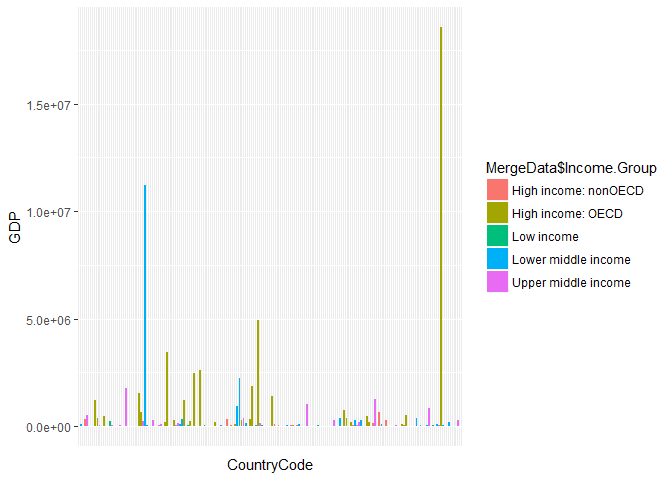
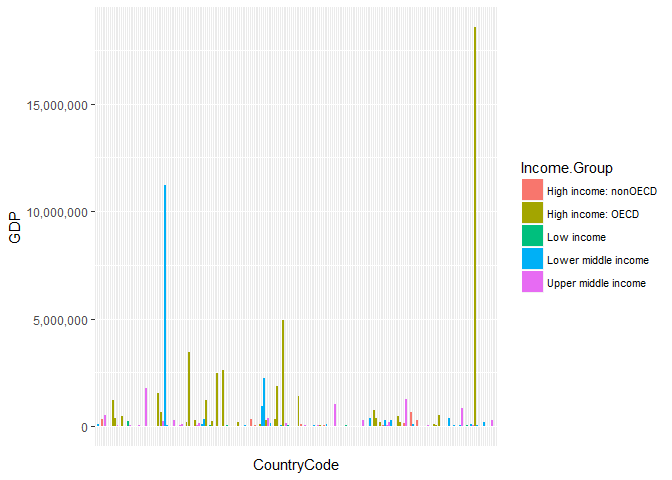
We added the conclusion to Analysis.Rmd and md.

diff --git a/CaseStudy1/Analysis/Analysis.md b/CaseStudy1/Analysis/Analysis.md
@@ -3,7 +3,10 @@ Analysis.Rmd
 Festus Yaboah, Chris Havenstein, and Cam Lu
 July 7, 2017
 
-### Please set your working directory to the Analysis folder.
+Analysis
+========
+
+#### To begin the analysis, please set your working directory to the Analysis folder.
 
 Depending on the directory you cloned the "MSDS6306-CaseStudy1" into, the path to the "Analysis" folder should be similar to:
 
@@ -15,7 +18,7 @@ By modifying "Analysis.Rmd" in the Analysis folder, I set an absolute path to th
 setwd("C:/Users/Chris/Desktop/GIT home/root/CaseStudy1/Analysis")
 ```
 
-Source Makefile.R
+Then, source Makefile.R
 
 ``` r
 source("./Data/Makefile.R")
@@ -60,10 +63,12 @@ source("./Data/Makefile.R")
     ## 
     ## MergeData.csv has been created from CleanGDP.csv and CleanEDSTATS_Country.csv.
 
+At this point, Makefile.R has completed running and has loaded the merged data for analysis.
+
 Question 1 on Merged Data:
 --------------------------
 
-### Merge the data based on country shortcode. How many of the IDs match?
+#### Merge the data based on country shortcode. How many of the IDs match?
 
 ``` r
 nrow(MergeData)
@@ -71,14 +76,12 @@ nrow(MergeData)
 
     ## [1] 187
 
-#### 187 country shortcodes match.
+*Answer*: There are 187 country shortcodes match.
 
 Question 2 on Merged Data:
 --------------------------
 
-### Sort the data frame in ascending order by GDP (so United States is last).
-
-### What is the 13th country in the resulting data frame?
+#### Sort the data frame in ascending order by GDP (so United States is last). What is the 13th country in the resulting data frame?
 
 ``` r
 MergeData <- MergeData[order(MergeData$GDP),]
@@ -88,16 +91,18 @@ MergeData[13,3]
 
     ## [1] "Samoa"
 
-#### Answer: The 13th Country in the reordered data is Samoa.
+*Answer*: The 13th country in this reordered data is Samoa.
 
 Question 3 on Merged Data:
 --------------------------
 
-### What are the average GDP rankings for the "High income:OECD" and "High income: nonOECD" groups?
+#### What are the average GDP rankings for the "High income:OECD" and "High income: nonOECD" groups?
 
-#### To proceed, we loaded the package "dplyr". If you do not have dplyr installed. You will need to run the R function for install.packages with dplyr passed as a parameter. This looks like the following, below.
+To proceed, we loaded the package "dplyr". If you do not have dplyr installed. You will need to run the R function for install.packages with dplyr passed as a parameter. This looks like the following, below.
 
-##### install.packages("dplyr")
+-   install.packages("dplyr")
+
+<!-- -->
 
     ## Warning: package 'dplyr' was built under R version 3.2.5
 
@@ -116,42 +121,55 @@ Average.Rank.nonOECD =mean(Filtered.nonOECD$Rank)
 
 #output the average ranks to the user
 
-#The average GDP rank for the income group 'High income: OECD' is: 31.9333. 
+#Display the Average Rank for the "High income: OECD" group to the user.
 Average.Rank.OECD
 ```
 
     ## [1] 31.93333
 
 ``` r
-#The average GDP rank for the income group 'High income: nonOECD' is: 101.375.
+#Display the Average Rank for the "High income: nonOECD" group to the user.
 Average.Rank.nonOECD
 ```
 
     ## [1] 101.375
 
-#### The countries in the 'High income: OCED' income group tend to have a Higher GDP on average than the 'High income: nonOCED' income group countries.
+*Answer*: The average GDP rank for the income group 'High income: OECD' is: 31.9333. The average GDP rank for the income group 'High income: nonOECD' is: 101.375.
+
+The countries in the 'High income: OCED' income group tend to have a Higher GDP on average than the 'High income: nonOCED' income group countries.
 
 Question 4 on Merged Data:
 --------------------------
 
-### Plot the GDP for all of the countries. Use ggplot2 to color your plot by Income Group.
+#### Plot the GDP for all of the countries. Use ggplot2 to color your plot by Income Group.
 
-#### To proceed, we loaded the package "ggplot2". If you do not have ggplot2 installed. You will need to run the R function for install.packages with ggplot2 passed as a parameter. This looks like the following, below.
+To proceed, we loaded the package "ggplot2" and "scales". If you do not have ggplot2 or scales installed, you will need to run the R function for install.packages with ggplot2 and then scales passed as parameters. This looks like the following, below.
 
-##### install.packages("ggplot2")
+-   install.packages("ggplot2")
+-   install.packages("scales")
+
+<!-- -->
 
     ## Warning: package 'ggplot2' was built under R version 3.2.5
 
+    ## Warning: package 'scales' was built under R version 3.2.5
+
 ``` r
-ggplot(MergeData, aes(x=CountryCode, y=GDP))+geom_bar(aes(fill =MergeData$Income.Group), stat="identity")+ theme(axis.text.x=element_blank(),axis.ticks.x=element_blank())
+##The bar chart for CountryCode and GDP colored by income group is created, below.
+##We removed the CountryCode labels because they were not clearly visible.
+
+ggplot(MergeData, aes(x = CountryCode, y=GDP))+geom_bar(aes(fill =Income.Group), stat="identity")+ theme(axis.text.x=element_blank(),axis.ticks.x=element_blank(),legend.position="right",legend.text=element_text(size=8)
+)+ scale_y_continuous(name="GDP", labels = comma)
 ```
 
 ![](Analysis_files/figure-markdown_github/GDPbyIncomeGroup-1.png)
 
+*Answer*: The GDP by income group plot has been displayed, above.
+
 Question 5 on Merged Data:
 --------------------------
 
-### Find countries in the top 38 that are in the Lower middle income group.
+#### Find countries in the top 38 that are in the Lower middle income group.
 
 ``` r
 #Break GDP into 5 quantiles
@@ -209,3 +227,16 @@ Top38subset
     ## 78         5
     ## 79         5
     ## 33         5
+
+*Answer*: The countries that are ranked in the top 38 by GDP and are in the lower middle income group are: The Philippines, Egypt, Nigeria, Thailand, Indonesia, India, and China.
+
+Conclusion:
+-----------
+
+-   To summarize, the merged data was matched on 187 country codes with GDP rankings, that were not an aggregate group. We want to emphasize that our data set does not include aggregate groups since they did not have GDP with an associated rank. Since they had no relevant GDP data, they were removed from the analysis. The result was 2 merged rows that were removed from the merged clean data set.
+
+-   We explored the average GDP ranking for different income groups. We focused on the "High income: OECD" and "High income: nonOECD" income groups. We found the average ranking for the "High income: OECD" group was 31.9333. The average ranking for the "High income: nonOECD" group was 101.375. Since a lower GDP ranking corresponds to a higher GDP, the "High income: nonOECD" group was associated with -on average- countries with a lower GDP. The "High income: OECD" group on average corresponded to countries with a higher average GDP.
+
+-   When plotting countries by GDP and coloring by income group, countries in the "High income OECD" group on average tended to have the highest GDPs. The exception to this China, that is in the "Lower middle income" group and has the second highest GDP.
+
+-   The key finding of this analysis is that there are seven countries ranked in the top 38 by GDP, but are placed in the lower middle income group. There could be a number of reasons for this that suggest areas for future research. A key variable the research team considered that could be related is population. However, population was not included in the merged clean data set.
